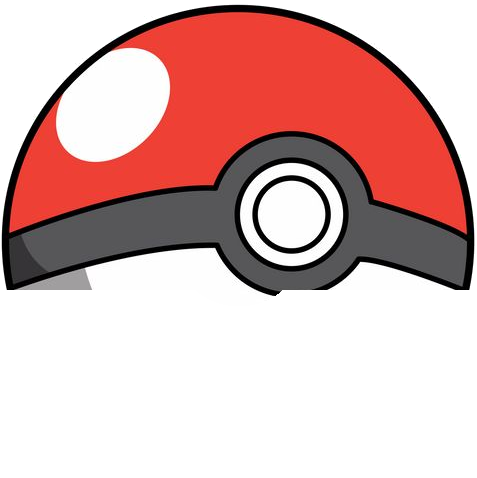
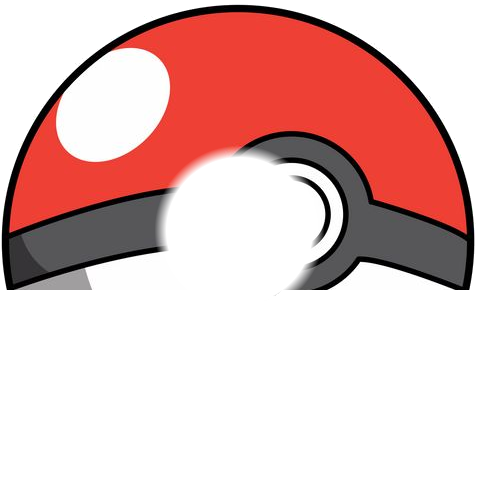
포켓볼 잠금 버튼과 경첩 동작 개선

Changed region(s): [[0.3229, 0.2929, 0.6751, 0.6151]]

diff --git a/src/style.css b/src/style.css
@@ -175,6 +175,37 @@ body {
   transform-origin: 50% 100%;
 }
 
+.pokeball-lock {
+  position: absolute;
+  left: 55px;
+  top: 52px;
+  width: 50px;
+  height: 50px;
+  z-index: 6;
+  border: 4px solid #151515;
+  border-radius: 50%;
+  background: radial-gradient(circle at 50% 42%, #ffffff 0 31%, #d9d9d9 33% 43%, #747478 45% 67%, #414145 70% 100%);
+  box-shadow: 0 3px 5px rgba(0, 0, 0, 0.4), inset 0 2px 3px rgba(255, 255, 255, 0.55);
+  pointer-events: none;
+}
+
+.pokeball-lock::before {
+  content: '';
+  position: absolute;
+  inset: 7px;
+  border: 2px solid #111;
+  border-radius: 50%;
+}
+
+.pokeball-lock::after {
+  content: '';
+  position: absolute;
+  inset: 12px;
+  border-radius: 50%;
+  background: #f8f8f8;
+  box-shadow: inset 0 1px 2px rgba(0, 0, 0, 0.22);
+}
+
 .pokeball-open-state {
   position: absolute;
   left: -4px;
@@ -231,27 +262,35 @@ body {
 }
 
 .pokeball-wrapper.is-opening .pokeball-top {
-  animation: hinge-open 1.35s cubic-bezier(0.18, 0.8, 0.25, 1) forwards;
+  animation: hinge-open 1.35s cubic-bezier(0.18, 0.8, 0.25, 1) 0.28s forwards;
 }
 
 .pokeball-wrapper.is-opening .pokeball-hinge {
-  animation: hinge-appear 1.35s ease-out forwards;
+  animation: hinge-appear 1.35s ease-out 0.28s forwards;
+}
+
+.pokeball-wrapper.is-opening .pokeball-lock {
+  animation: lock-press 0.58s cubic-bezier(0.2, 0.75, 0.25, 1) forwards;
 }
 
 .pokeball-wrapper.is-opening .pokeball-chamber {
-  animation: reveal-chamber 1.35s cubic-bezier(0.2, 0.75, 0.25, 1) forwards;
+  animation: reveal-chamber 1.35s cubic-bezier(0.2, 0.75, 0.25, 1) 0.28s forwards;
 }
 
 .pokeball-wrapper.is-opening .pokeball-interior {
-  animation: reveal-interior 1.35s ease-out forwards;
+  animation: reveal-interior 1.35s ease-out 0.28s forwards;
 }
 
 .pokeball-wrapper.is-opening .pokeball-open-state {
-  animation: show-open-state 1.65s ease-in-out forwards;
+  animation: show-open-state 1.35s ease-in-out 0.42s forwards;
 }
 
 .pokeball-wrapper.is-opening .pokeball-light {
-  animation: opening-light 1.1s ease-out forwards;
+  animation: opening-light 1.1s ease-out 0.48s forwards;
+}
+
+.pokeball-wrapper.is-opening .pokeball-visual {
+  animation: activation-bounce 2.2s cubic-bezier(0.2, 0.75, 0.25, 1) forwards;
 }
 
 @keyframes hinge-open {
@@ -265,6 +304,23 @@ body {
   0%, 14% { opacity: 0; transform: translateY(-3px) scaleX(0.7); }
   38% { opacity: 1; transform: translateY(0) scaleX(1); }
   100% { opacity: 0.9; transform: translateY(2px) scaleX(1); }
+}
+
+@keyframes lock-press {
+  0% { opacity: 1; transform: scale(1); }
+  10% { opacity: 1; transform: translateY(3px) scale(0.82); }
+  19% { opacity: 1; transform: translateY(-1px) scale(1.08); }
+  32% { opacity: 0.95; transform: translateY(0) scale(1); }
+  48% { opacity: 0; transform: translateY(-2px) scale(0.9); }
+  100% { opacity: 0; transform: translateY(-2px) scale(0.9); }
+}
+
+@keyframes activation-bounce {
+  0% { transform: scale(1); }
+  7% { transform: scale(0.88); }
+  14% { transform: scale(1.06); }
+  23% { transform: scale(0.97); }
+  31%, 100% { transform: scale(1); }
 }
 
 @keyframes reveal-chamber {

diff --git a/src/main.ts b/src/main.ts
@@ -19,7 +19,7 @@ document.addEventListener('DOMContentLoaded', () => {
       wrapper.setAttribute('aria-busy', 'true');
       window.setTimeout(() => {
         window.location.href = `${import.meta.env.BASE_URL}member.html?id=${member.id}`;
-      }, 1650);
+      }, 2200);
     };
 
     wrapper.onclick = openMemberPage;
@@ -48,13 +48,17 @@ document.addEventListener('DOMContentLoaded', () => {
     const top = document.createElement('div');
     top.className = 'pokeball-layer pokeball-top';
 
+    const lock = document.createElement('div');
+    lock.className = 'pokeball-lock';
+    lock.setAttribute('aria-hidden', 'true');
+
     const openState = document.createElement('div');
     openState.className = 'pokeball-open-state';
 
     const light = document.createElement('div');
     light.className = 'pokeball-light';
 
-    pokeball.append(bottom, hinge, chamber, interior, top, openState, light);
+    pokeball.append(bottom, hinge, chamber, interior, top, lock, openState, light);
 
     const label = document.createElement('div');
     label.className = 'member-label';
